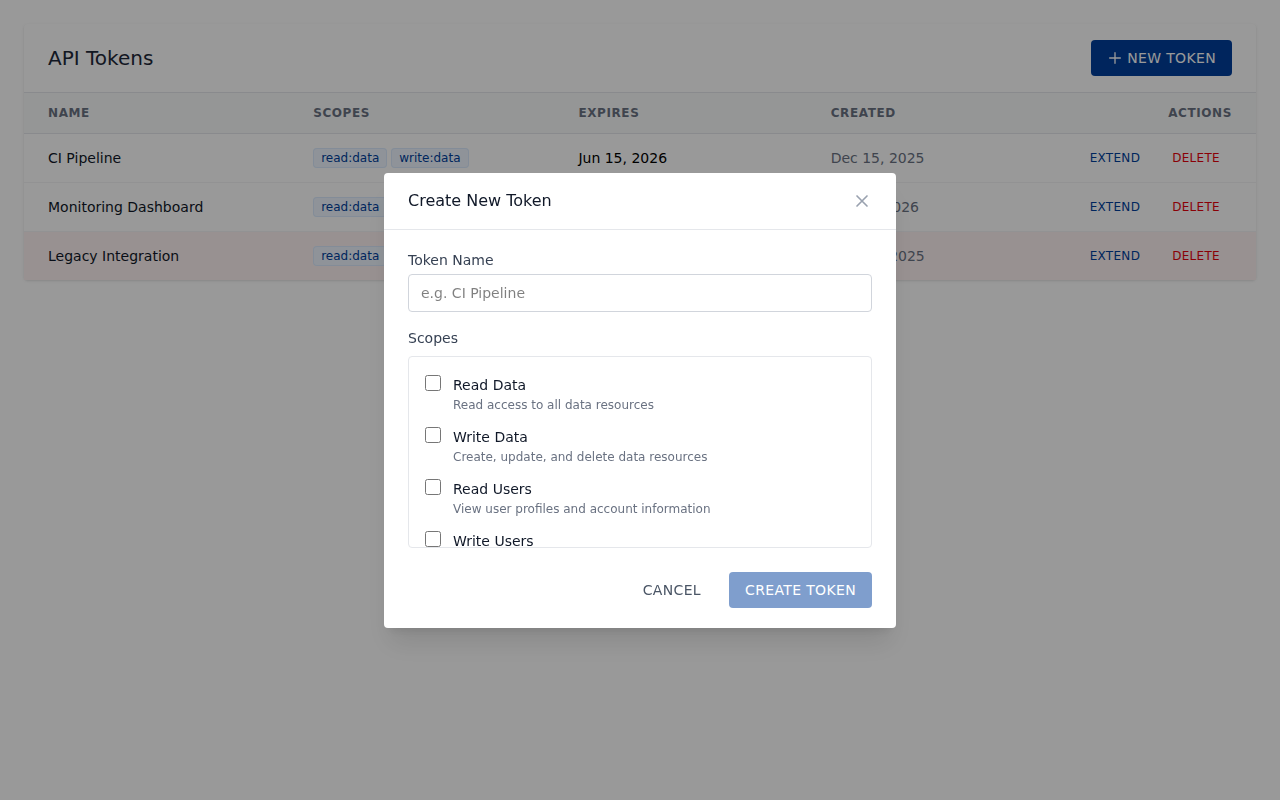
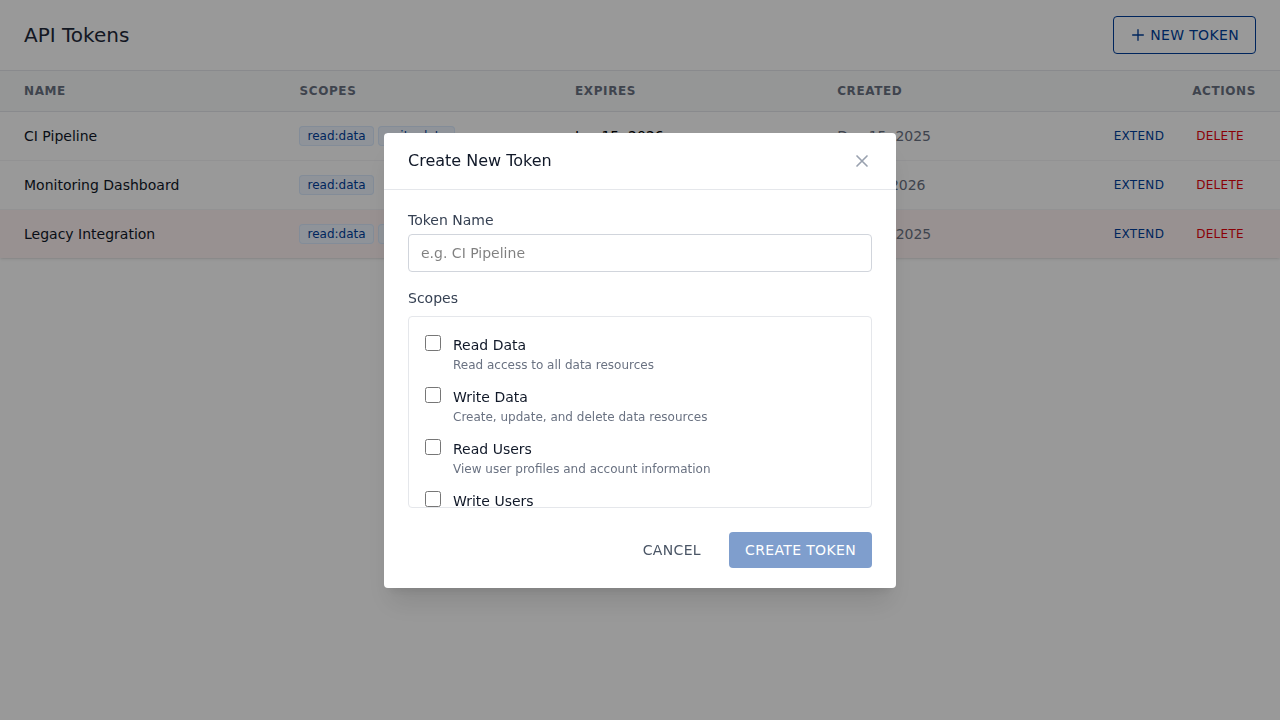
Remove table padding and change button to outlined style for Kubeflow UI consistency

diff --git a/src/routes/+page.svelte b/src/routes/+page.svelte
@@ -93,14 +93,14 @@
   <title>API Tokens</title>
 </svelte:head>
 
-<div class="p-6">
-  <div class="rounded bg-white shadow">
+<div>
+  <div class="bg-white shadow">
     <div class="flex items-center justify-between border-b border-gray-200 px-6 py-4">
       <h1 class="text-xl font-medium text-gray-800">API Tokens</h1>
       <button
         onclick={() => (showCreateModal = true)}
         disabled={loading}
-        class="flex items-center gap-1 rounded bg-kubeflow-blue px-4 py-2 text-sm font-medium uppercase tracking-wide text-white hover:bg-kubeflow-blue-dark disabled:opacity-50"
+        class="flex items-center gap-1 rounded border border-kubeflow-blue px-4 py-2 text-sm font-medium uppercase tracking-wide text-kubeflow-blue hover:bg-blue-50 disabled:opacity-50"
       >
         <svg class="h-4 w-4" fill="none" viewBox="0 0 24 24" stroke="currentColor" stroke-width="2">
           <path stroke-linecap="round" stroke-linejoin="round" d="M12 4v16m8-8H4" />
